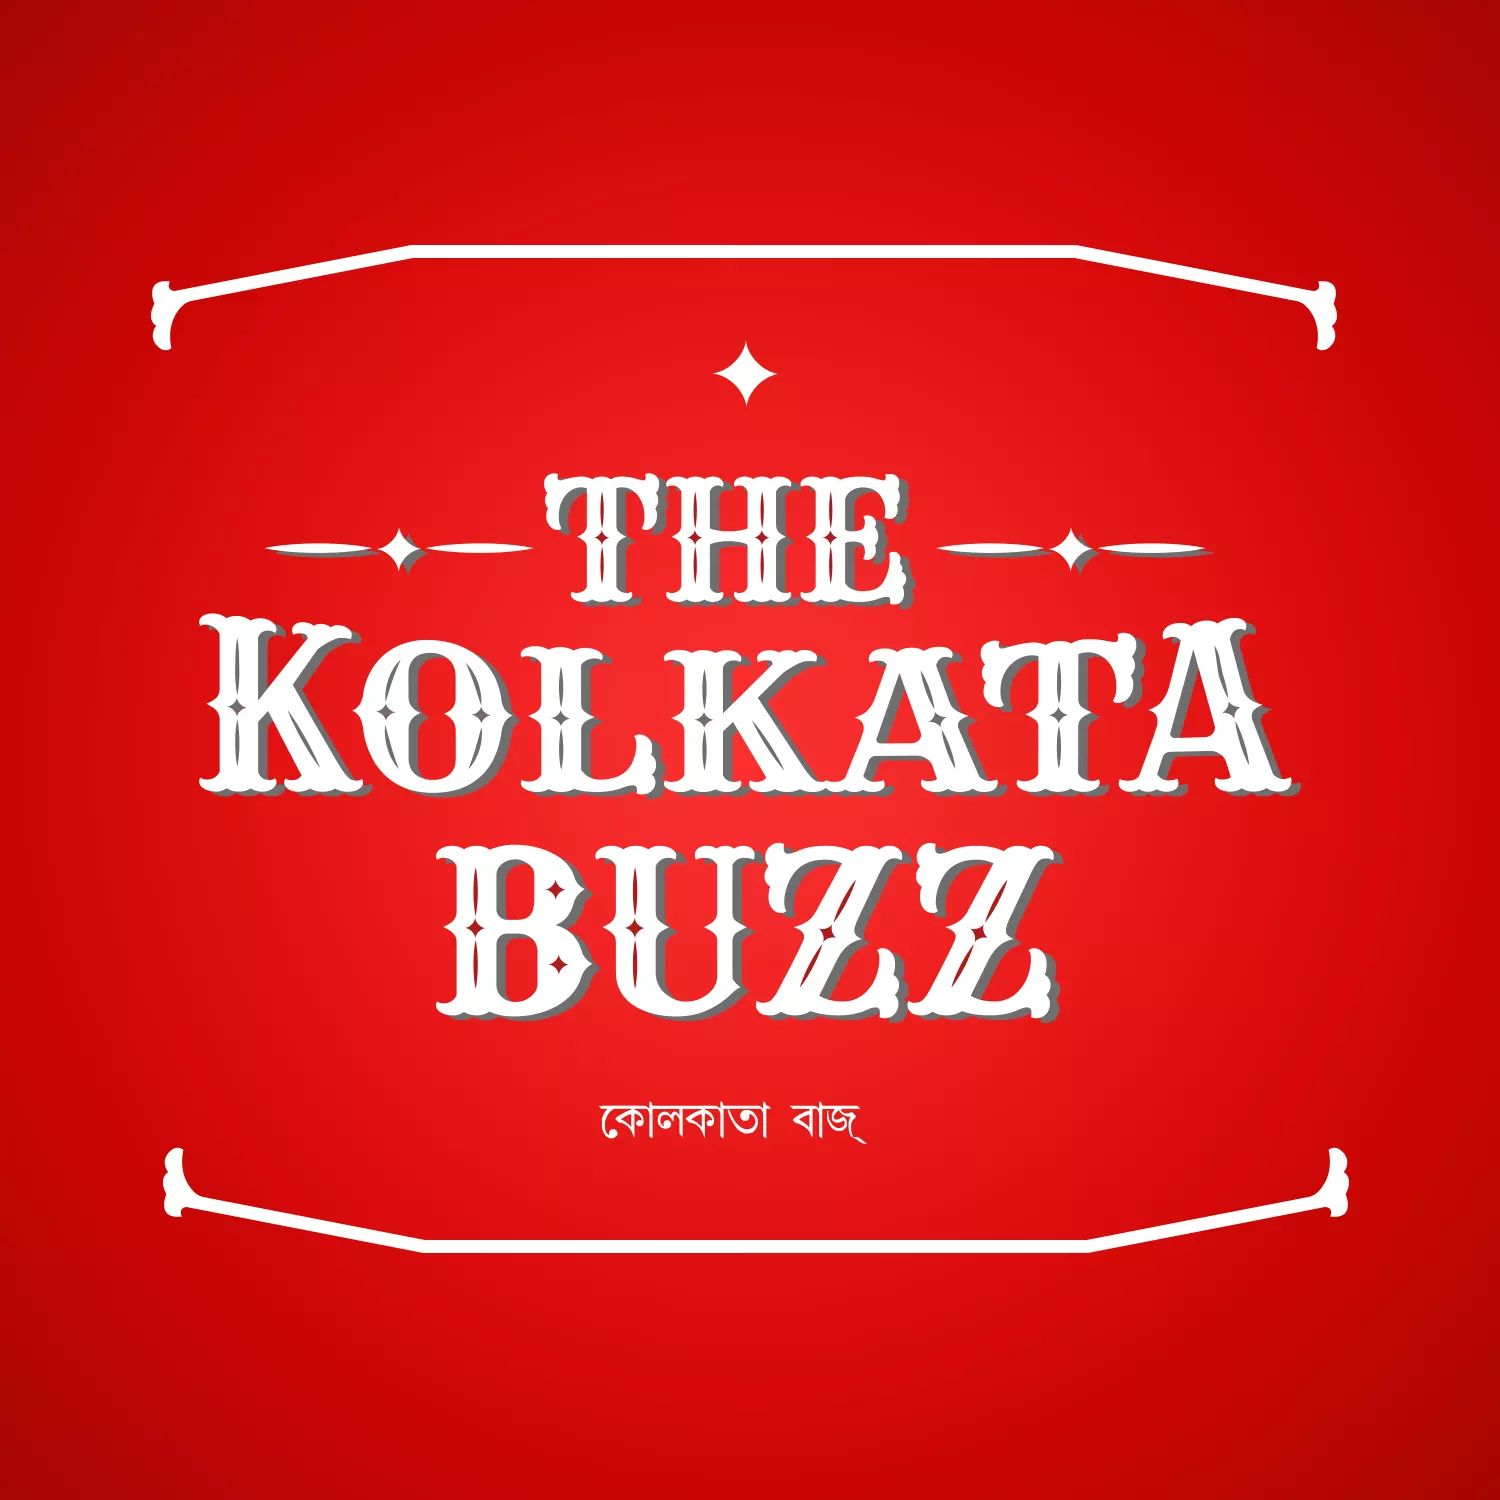
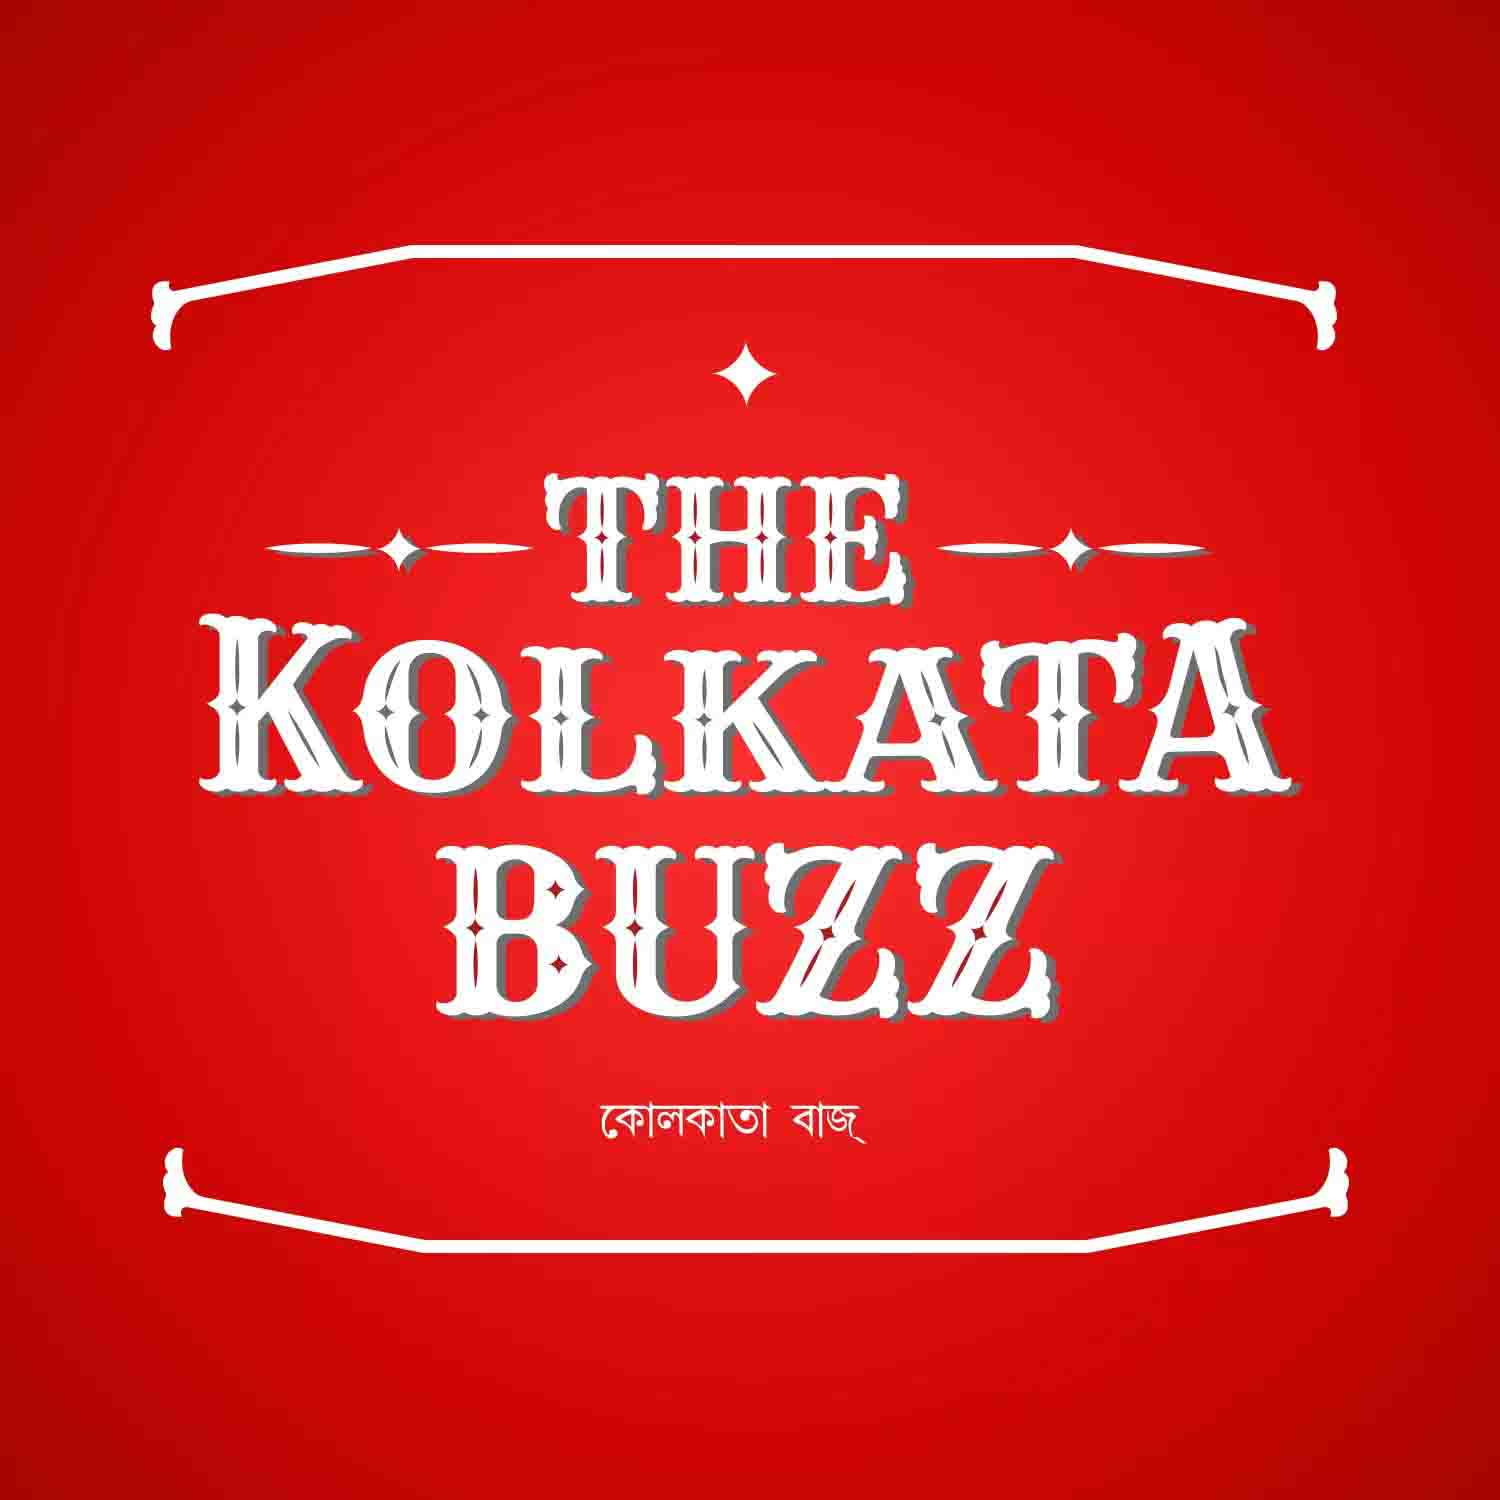
revised posters added.

diff --git a/mockParliament.html b/mockParliament.html
@@ -113,7 +113,35 @@
             </div>
 
             <div class="container-text sansad-body-text">
-                <h6 class="text-center" style="font-family: 'Roboto';">Event rules for Sansad will be notified very soon.<br/>Stay tuned folks!!!</h6>
+                <h2 class="text-center">Sansad</h2>
+                <h3 class="text-center mix-dance">Mock parliament</h3>
+                <p>
+                    "Political democracy cannot last unless there lies at the base of it social democracy. What does
+                    social democracy mean? It means a way of life which recognizes liberty, equality and fraternity as
+                    the principles of life."<br/>
+                    _–B R Ambedkar_
+                    <br />
+                    The political fabric of the parliamentary democracy of India paves the way to articulate one's
+                    standpoint in the most unprecedented manner. An assemblage of 448 articles and 12 schedules—the
+                    Indian Constitution forms the basis of such a discourse.<br />
+                    *Xavotsav 2020 presents to you the 'Mock Parliament' Competition*, a simulation of the Lower House
+                    of the Parliament. The participants are required to represent important Members of the Parliament
+                    and engage in an intellectual discussion by keeping in mind the policies of their affiliated
+                    political parties. <br />
+                    *The Lok Sabha*, as it is called, is vested with special provisions which makes it more powerful
+                    than its bicameral counterpart in the Indian Parliament. *The Mock Parliament* not only serves as an
+                    educational exercise for all its participants, but also provides a platform to put forward the
+                    change in the current political scenario that they would like to experience in the years to follow.
+                    <br/>
+                    Join us in the house to experience euphoria like never before.
+                </p>
+                <p>
+                    <b>Dates: 22, 23 January, 2020</b><br/>
+                    <b>Time: 10:00am - 2:00pm both days</b><br/>
+                    <b>Participation type: </b>Single delegation. (one person representing one portfolio).<br/>
+                    <b>Agenda: </b>A roadmap towards drafting a national immigration policy for india.<br/>
+                    <b>rules of procedure: </b>lok sabha parliamentary procedures.<br/>
+                </p>
             </div>
 
         </div>

diff --git a/events.html b/events.html
@@ -191,7 +191,7 @@
                 <div class="carousel-item" style="background-image: url('./images/management.jpg')">
                     <div class="carousel-caption">
                         <h2 class="display-4">Business & Management</h2>
-                        <button class="btn btn-outline-light customButton" onclick="window.location.href='./mockParliament.html'">Details</button>
+                        <button class="btn btn-outline-light customButton" onclick="window.location.href='./business.html'">Details</button>
                         <p>For decades, socialism and capitalism have remained arch-rivals on the ideological spectrum. Needless to say, both exercise substantial influence on management of business and commerce around the globe.
                             Do you think you can take risks? Make decisions? Brainstorm and think on your feet? Lead from the front and make the most of what you have? 
                             This Xavotsav 2020, put these skills to test and bring out the businessperson in you in a plethora of events.</p>

diff --git a/style/index.css b/style/index.css
@@ -15,7 +15,7 @@
 
 .sec1 {
     /* background-image: url(https://www.thedenverear.com/wp-content/uploads/2018/05/shutterstock_554109856.jpg); */
-    background-image: url('../images/Cover-Back-Blur.jpg');
+    background-image: url('../images/Cover-Back-Blur-darker.jpg');
     background-size: cover;
     background-origin: border-box;
     background-position: center;
@@ -896,7 +896,7 @@
         margin-bottom: -5rem !important;
     }
     .eventButton {
-        font-size: 8px;
+        font-size: 10px;
         width: 135px !important;
     }
     .desktopAbout {
@@ -1422,7 +1422,7 @@
     /* background-color: #b8c6db;
     background-image: linear-gradient(330deg, #b8c6db 0%, #f5f7fa 74%, #b8c6db 40%);
      */
-     background-image: url("../images/background/back8.jpg");
+     background-image: url("../images/background/back8-darker.jpg");
      background-size: cover;
 }
 

diff --git a/speakingArts.html b/speakingArts.html
@@ -92,11 +92,13 @@
     </div>
 
     <div class="text-center buttonHolder">
+        <a href="#texts" id="btnCat" class="hvr-buzz-out btnPass">PASS THE TORCH</a>
+        <a href="#texts" id="btnCat" class="hvr-buzz-out btnVerse">X-VERSE</a>
+        <a href="#texts" id="btnCat" class="hvr-buzz-out btnPose">X-POSE</a>
         <a href="#texts" id="btnCat" class="hvr-buzz-out btnChannel">CHANNEL-EYES</a>
         <a href="#texts" id="btnCat" class="hvr-buzz-out btnSpot">ON THE SPOT</a>
         <a href="#texts" id="btnCat" class="hvr-buzz-out btnWar">WAR OF WORDS</a>
-        <a href="#texts" id="btnCat" class="hvr-buzz-out btnPass">PASS THE TORCH</a>
-        <a href="#texts" id="btnCat" class="hvr-buzz-out btnVerse">X-VERSE</a>
+        
     </div>
 
     <div class="main-texts" id="texts">

diff --git a/index.html b/index.html
@@ -709,9 +709,11 @@
             </div>
 
             <div class="socialSmall">
-                <i class="fa fa-instagram" aria-hidden="true"></i>
-                <i class="fa fa-facebook" aria-hidden="true"></i>
-                <i class="fa fa-twitter-square" aria-hidden="true"></i>
+                <a href="https://www.instagram.com/sxcsc" target="_blank"><i class="fa fa-instagram" aria-hidden="true"></i></a>
+
+                <a href="https://www.facebook.com/xavotsav/" target="_blank"><i class="fa fa-facebook" aria-hidden="true"></i></a>
+
+                <a href="https://twitter.com/gensec2019?s=03" target="_blank"><i class="fa fa-twitter-square" aria-hidden="true"></i></a>
             </div>
 
         </div>

diff --git a/business.html b/business.html
@@ -140,7 +140,7 @@
                     <b>STRUCTURE:</b><br />
                     <b>XTACY:</b> PARTICIPANTS WILL HAVE TO SOLVE A SET OF CASE STUDIES BY A STIPULATED DATE (TO BE
                     SPECIFIED
-                    LATER ON) AND SEND TO BEVENTS.XAVOTSAV20@GMAIL.COM. LIVE PRELIMS WILL BE HELD SUBSEQUENTLY. 6
+                    LATER ON) AND SEND TO <a href="mailto:bevents.xavotsav20@gmail.com">BEVENTS.XAVOTSAV20@GMAIL.COM</a>. LIVE PRELIMS WILL BE HELD SUBSEQUENTLY. 6
                     PARTICIPANTS WILL BE SHORTLISTED FOR THE FINAL ROUND ON THE BASIS OF THEIR PERFORMANCES IN THE
                     PRELIMS.<br />
                     <b>XAVOTSAV:</b> RULES TO BE CONVEYED TO THE PARTICIPANTS.

diff --git a/style/speakingArts.css b/style/speakingArts.css
@@ -232,7 +232,7 @@ span:hover, li:hover {
     color: white;
 }
 
-.channel-dance {
+.pass-dance {
     animation-name: fadeIn;
     animation-duration: 2s;
 }
@@ -269,7 +269,7 @@ span:hover, li:hover {
     }
 }
 
-.verse, .pose, .war, .pass, .spot {
+.verse, .pose, .war, .channel, .spot {
     display: none;
 }
 
@@ -358,5 +358,10 @@ span:hover, li:hover {
 @media (max-width: 360px) {
     .poster img {
         width: 80%;
+    }
+}
+@media (max-width: 380px) {
+    .circle {
+        margin-left: -1.1rem !important;
     }
 }

diff --git a/style/fineArts.css b/style/fineArts.css
@@ -266,8 +266,6 @@ span:hover, li:hover {
     .container-text {
         margin-left: 2rem;
         margin-right: 2rem;
-    }
-    .mono-body-text {
         font-size: .6rem;
         line-height: 1.2rem;
     }
@@ -379,5 +377,10 @@ span:hover, li:hover {
 @media (max-width: 360px) {
     .poster img {
         width: 80%;
+    }
+}
+@media (max-width: 380px) {
+    .circle {
+        margin-left: -1.1rem !important;
     }
 }

diff --git a/pastlineup.html b/pastlineup.html
@@ -34,7 +34,7 @@
     <div id="loader"></div>
 
     <div class="container">
-        <div class="navWrapper">
+        <!-- <div class="navWrapper">
             <div id="nav-icon2">
                 <span></span>
                 <span></span>
@@ -43,7 +43,7 @@
                 <span></span>
                 <span></span>
             </div>
-        </div>
+        </div> -->
 
 
         <div class="navItems">

diff --git a/style/mockParliament.css b/style/mockParliament.css
@@ -129,7 +129,7 @@ body {
 }
 
 #one:before {
-    content: "X-Y";
+    content: "SANSAD";
     margin-top: 1rem;
     position: absolute;
 }
@@ -320,5 +320,11 @@ span:hover, li:hover {
 @media (max-width: 360px) {
     .poster img {
         width: 80%;
+    }
+}
+
+@media (max-width: 380px) {
+    .circle {
+        margin-left: -1.1rem !important;
     }
 }

diff --git a/style/business.css b/style/business.css
@@ -364,3 +364,9 @@ span:hover, li:hover {
         width: 80%;
     }
 }
+
+@media (max-width: 380px) {
+    .circle {
+        margin-left: -1.1rem !important;
+    }
+}

diff --git a/style/litArts.css b/style/litArts.css
@@ -372,3 +372,9 @@ span:hover, li:hover {
         width: 80%;
     }
 }
+
+@media (max-width: 380px) {
+    .circle {
+        margin-left: -1.1rem !important;
+    }
+}
